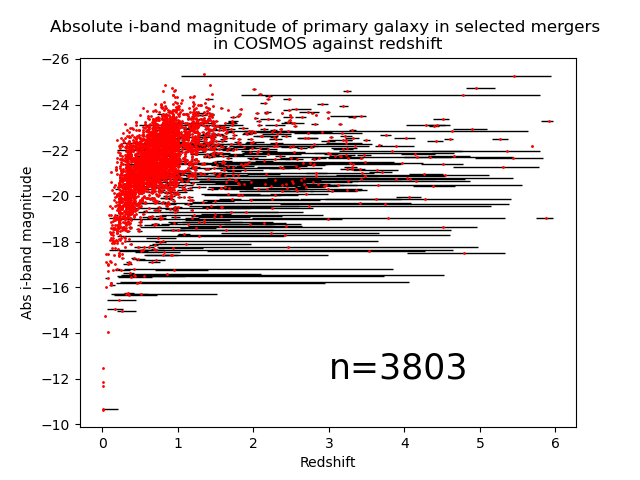
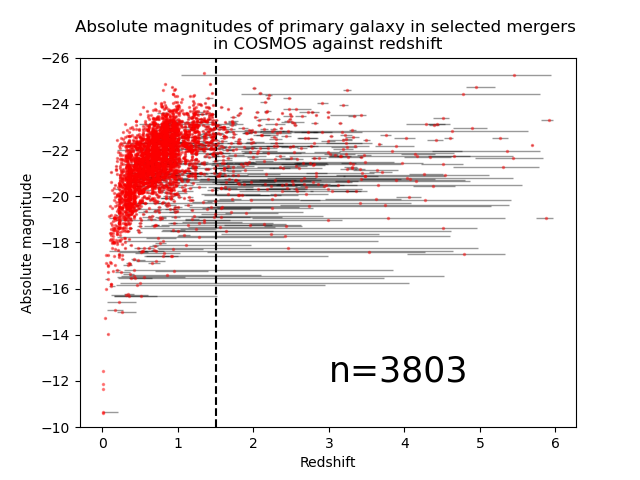
Added redshift limit, changed alpha to 0.4

diff --git a/plots/plotting_code/main_plots/abs_mag_z.py b/plots/plotting_code/main_plots/abs_mag_z.py
@@ -139,12 +139,13 @@ def generate_i_band(data):
     z_upp_err = [i[2] - i[0] for i in data]
     z_err = [z_low_err, z_upp_err]
 
-    plt.errorbar(z_pdf, i_mag, xerr=z_err, c='red',fmt='.', markersize=5, ecolor='black', elinewidth=1,label='i-mag')
+    plt.errorbar(z_pdf, i_mag, alpha=0.4, c='red',fmt='.', markersize=3, ecolor='black', elinewidth=1,label='i-mag')
+    plt.plot([1.5] * (-10 - -27), [-10 - i for i in range(0, 17)], linestyle='--', c='black')
     plt.title(f'Absolute magnitudes of primary galaxy in selected mergers \nin COSMOS against redshift')
     plt.xlabel('Redshift')
     plt.ylabel('Absolute magnitude')
+    plt.ylim(-26, -10)
     plt.text(3, -12, f'n={n}', fontsize=25)
-    plt.legend()
     ax = plt.gca()
     ax.invert_yaxis()
     
